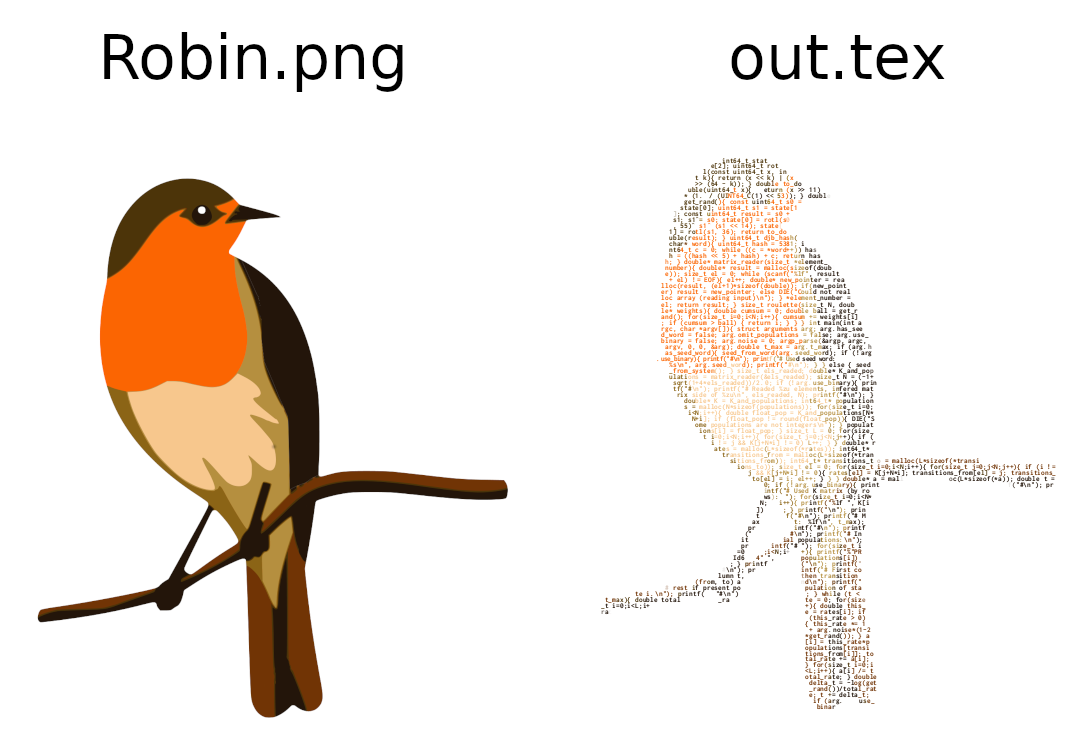
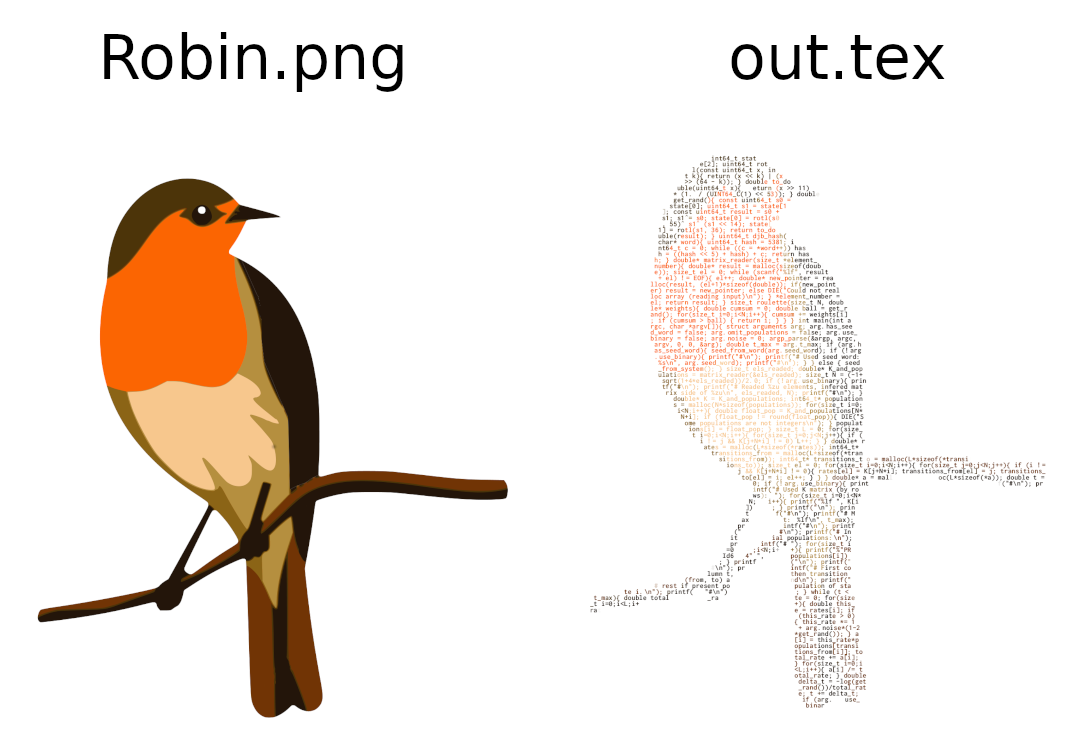
Fixed bug: missaligned lines for some input
Looks like filling the white parts of the image with white characters
works better than using spaces.

Changed region(s): [[0.5303, 0.2107, 0.967, 0.9932]]

diff --git a/text_as_image.py b/text_as_image.py
@@ -30,9 +30,9 @@ import numpy as np
 from imageio import imread
 from argparse import ArgumentParser, RawTextHelpFormatter
 import sys
-from os.path import basename
 
-parser = ArgumentParser(description=__doc__, formatter_class=RawTextHelpFormatter)
+parser = ArgumentParser(description=__doc__,
+                        formatter_class=RawTextHelpFormatter)
 parser.add_argument("TEXTFILE", type=str,
                     help="Text file to use. Will use it as it is.")
 parser.add_argument("IMG", type=str,
@@ -53,9 +53,10 @@ font_v_correction_pt = args.y
 font = args.f
 text = open(args.TEXTFILE).read().strip()
 
-img = imread(args.IMG)[:, :, :3] # Discard alpha channel
+img = imread(args.IMG)[:, :, :3]  # Discard alpha channel
 
 print(args, file=sys.stderr)
+
 
 def get_width_central_figure(arr):
     """
@@ -85,8 +86,8 @@ def get_width_central_figure(arr):
 
 def measure_font(char, font, size):
     """
-    Get width and height of a `char` (str) of the `font` (str) at size `size` pt
-    (float) in pixels.
+    Get width and height of a `char` (str) of the `font` (str) at size `size`
+    pt (float) in pixels.
     """
     fig, ax = plt.subplots()
     ax.axis('off')
@@ -99,6 +100,15 @@ def measure_font(char, font, size):
     x_size_px = get_width_central_figure(np.sum(char_img[:, :, 0], axis=0))
     y_size_px = get_width_central_figure(np.sum(char_img[:, :, 0], axis=1))
     return x_size_px, y_size_px
+
+def escape(char):
+    """
+    Substitute the character for a LaTeX-safe escaped sequence.
+    """
+    subs = {'%': '\\%', '$': '\\$', '{': '\\{', '}': '\\}', '_': '\\_',
+            '#': '\\#', '&': '\\&', '<': '\\textless', '^': '\\^',
+            '\\': '\\textbackslash', '\n': ' '}
+    return subs.get(char, char)
 
 if __name__ == '__main__':
 
@@ -115,16 +125,17 @@ if __name__ == '__main__':
 
     char_idx = 0
 
-    print("Suggested preamble: ", file=sys.stderr)
-    print("    \\usepackage{fontspec}", file=sys.stderr)
-    print("    \\setmonofont{%s}" % font, file=sys.stderr)
-    print("    \\usepackage{xcolor}", file=sys.stderr)
+    print(r"\documentclass[a4paper]{report}")
+    print(r"\usepackage{xcolor}")
+    print(r"\usepackage{fontspec}")
+    print(r"\setmonofont{", font, "}", sep='')
+    print(r"\begin{document}")
 
     print("{")
     print("\\bf")
     print("\\renewcommand{\\baselinestretch}{0}")
 
-    print('\\fontsize{%dpt}{%dpt}\selectfont' % (font_pt, int(1.14*font_pt)))
+    print('\\fontsize{%dpt}{%dpt}\\selectfont' % (font_pt, int(1.14*font_pt)))
 
     for i in range(yblocks):
         for j in range(xblocks):
@@ -140,23 +151,13 @@ if __name__ == '__main__':
             g = np.median(chunk[:, :, 1])
             b = np.median(chunk[:, :, 2])
             if r == g == b == 255:
-                print("\\texttt{\\ }", end='')
+                # Don't consume a character, print a dummy in white
+                print("{\\color[RGB]{255,255,255} \\texttt{x}}", end='')
             else:
                 while not text[char_idx].isprintable():
                     char_idx += 1
                 char = text[char_idx]
-                if char == '%': char = '\\%'
-                if char == '$': char = '\\$'
-                if char == '{': char = '\\{'
-                if char == '}': char = '\\}'
-                if char == '_': char = '\\_'
-                if char == '#': char = '\\#'
-                if char == '&': char = '\\&'
-                if char == '<': char = '\\textless'
-                if char == '^': char = '\\^'
-                if char == '\\': char = '\\textbackslash'
-                if char == '\n': char = ' '
-                print("{\\color[RGB]{%d,%d,%d} \\texttt{%s}}" % (r, g, b, char), end='')
+                print("{\\color[RGB]{%d,%d,%d} \\texttt{%s}}" % (r, g, b, escape(char)), end='')
                 char_idx += 1
             print('\\hspace{%lfpt}' % font_h_correction_pt)
         print()
@@ -164,3 +165,5 @@ if __name__ == '__main__':
         print()
 
     print("}")
+
+    print(r"\end{document}")

diff --git a/README.md b/README.md
@@ -1,29 +1,13 @@
-# text_as_image
+# text\_as\_image
 
 Use this utility to fill some image with code. It's a quick script bodged
-together in an afternoon, and as such not bulletproof, but does the work. There
-are bugs in the image generation when some characters are in the input, see for
-example the newline in the chest of the bird (image below) caused by the input
-`if (!arg.use_binary)`. If the input is just a file with x's, for example, all
-is fine.
-
-As an example, given the code in file `sample.txt` and the image in
-`robin.png`, we can use
+together in an afternoon, and as such not bulletproof, but does the work. As an
+example, given the code in file `sample.txt` and the image in `robin.png`, we
+can use
 
     ./text_as_image.py sample.txt robin.png > out.tex
 
-To get some TeX commands in `out.tex`. Adding
-
-
-    \documentclass[a4paper]{report}
-
-    \usepackage{fontspec}
-    \setmonofont{Inconsolata}
-    \usepackage{xcolor}
-
-    \begin{document}
-
-at the beginning, `\end{document}` at the end, and compiling with LuaLaTeX, we
+To get a LaTeX file in `out.tex`. Compiling with LuaLaTeX (or maybe XeLaTeX), we
 get the following result:
 
 ![alt text](https://github.com/RedPointyJackson/text_as_image/blob/master/robin_as_code.png "Example output")
